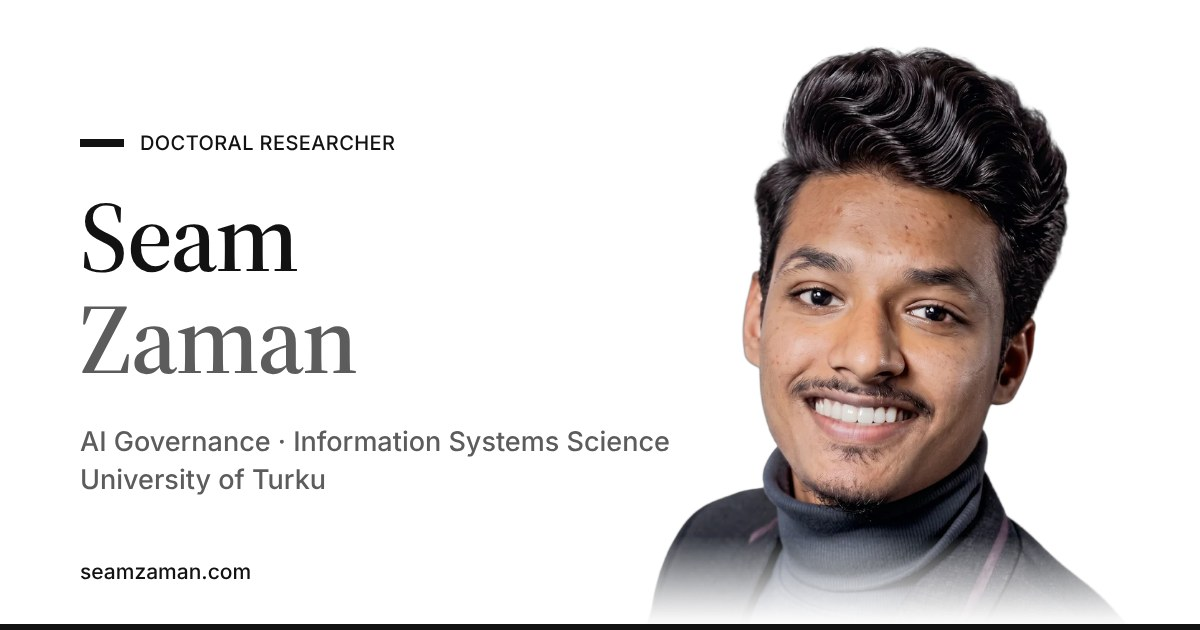
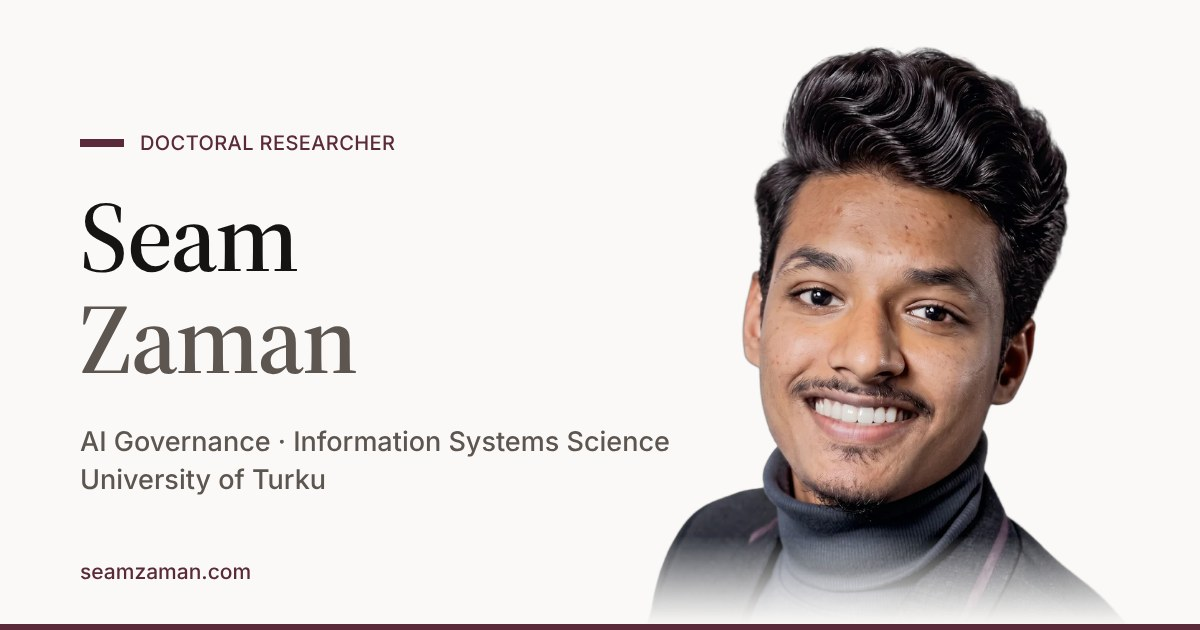
Add academic profile links, supervisor links and Person data
- Hero and contact: Google Scholar, ORCID, LinkedIn and University of
  Turku profile links
- Experience: supervisors link to their University of Turku pages
- Funding: name the three projects (AI4Work, RAITGO, FLAIG)
- Remove the Marketing Analyst role and the Languages line (kept in the
  CV PDF)
- index.html: schema.org Person JSON-LD with affiliation and profiles
- og-image.jpg: preview card on the off-white background with the plum
  accent

Claude-Session: https://claude.ai/code/session_01BgUoZHnXC1HSnGXGqqa1qu

Changed region(s): [[0.0, 0.9651, 1.0, 1.0], [0.0617, 0.2111, 0.3392, 0.2413], [0.0617, 0.9048, 0.2158, 0.9349]]

diff --git a/src/pages/Index.tsx b/src/pages/Index.tsx
@@ -1,17 +1,45 @@
 import { useState } from "react";
 import { motion, useReducedMotion } from "framer-motion";
-import { ArrowRight, Mail, MapPin, Download, ExternalLink, Linkedin } from "lucide-react";
+import { ArrowRight, Mail, MapPin, Download, ExternalLink, Linkedin, GraduationCap, Building2 } from "lucide-react";
 import { Button } from "@/components/ui/button";
 import { Tabs, TabsList, TabsTrigger, TabsContent } from "@/components/ui/tabs";
 import portrait from "@/assets/seam-portrait.webp";
 
 const EMAIL = "sszama@utu.fi";
 
+const PROFILES = [
+  { label: "Google Scholar", href: "https://scholar.google.com/citations?user=R_QWgUUAAAAJ&hl=en", icon: GraduationCap },
+  { label: "ORCID", href: "https://orcid.org/0009-0004-0791-6051", icon: ExternalLink },
+  { label: "LinkedIn", href: "https://www.linkedin.com/in/seamzaman/", icon: Linkedin },
+  { label: "University of Turku", href: "https://www.utu.fi/en/people/seam-zaman", icon: Building2 },
+] as const;
+
+const PersonLink = ({ href, children }: { href: string; children: React.ReactNode }) => (
+  <a
+    href={href}
+    target="_blank"
+    rel="noreferrer"
+    className="text-foreground underline decoration-brand/40 underline-offset-4 hover:decoration-brand focus-visible:outline-none focus-visible:ring-2 focus-visible:ring-ring"
+  >
+    {children}
+  </a>
+);
+
+const MANTYMAKI = "https://www.utu.fi/en/people/matti-mantymaki";
+const MINKKINEN = "https://www.utu.fi/en/people/matti-minkkinen";
+
 const timeline = [
-  { period: "Jan 2026 – present", title: "Doctoral Researcher, Information Systems Science", org: "Turku School of Economics, University of Turku", desc: "Doctoral Programme in Technology. Supervisors: Prof. Matti Mäntymäki and Matti Minkkinen. Target defence: 2030." },
+  {
+    period: "Jan 2026 – present",
+    title: "Doctoral Researcher, Information Systems Science", org: "Turku School of Economics, University of Turku", desc: (
+      <>
+        Doctoral Programme in Technology. Supervisors: <PersonLink href={MANTYMAKI}>Prof. Matti Mäntymäki</PersonLink> and{" "}
+        <PersonLink href={MINKKINEN}>Matti Minkkinen</PersonLink>. Target defence: 2030.
+      </>
+    ),
+  },
   { period: "Oct – Dec 2025", title: "Project Researcher", org: "Dept. of Management and Entrepreneurship, University of Turku", desc: "Built an API-based tool collecting dialogue data on AI governance tensions and gathered organisational AI governance policies." },
   { period: "May – Jul 2024", title: "Learning Analytics Intern", org: "Oulu Business School, University of Oulu", desc: "Co-authored the report Advancement of Digitalization in Education and structured a MOOC on Digicampus." },
-  { period: "2020 – 2022", title: "Marketing Analyst", org: "Course Platoon, Dhaka", desc: "Market research and analytics supporting strategy and customer acquisition." },
 ];
 
 const education = [
@@ -133,7 +161,7 @@ const SectionHeading = ({ kicker, children }: { kicker: string; children: React.
   </motion.div>
 );
 
-type TimelineItem = { period: string; title: string; org: string; desc?: string };
+type TimelineItem = { period: string; title: string; org: string; desc?: React.ReactNode };
 
 const Timeline = ({ items }: { items: readonly TimelineItem[] }) => (
   <div className="space-y-7 sm:space-y-8">
@@ -262,6 +290,20 @@ const Index = () => {
                   <a href="#contact">Get in Touch</a>
                 </Button>
               </div>
+              <ul className="mt-6 flex flex-wrap justify-center gap-x-5 gap-y-1 text-sm text-muted-foreground lg:justify-start">
+                {PROFILES.map(({ label, href, icon: Icon }) => (
+                  <li key={label}>
+                    <a
+                      href={href}
+                      target="_blank"
+                      rel="noreferrer"
+                      className="inline-flex min-h-11 items-center gap-1.5 transition-colors hover:text-foreground focus-visible:outline-none focus-visible:ring-2 focus-visible:ring-ring"
+                    >
+                      <Icon className="h-4 w-4 text-brand" /> {label}
+                    </a>
+                  </li>
+                ))}
+              </ul>
             </motion.div>
 
             <motion.div
@@ -359,7 +401,11 @@ const Index = () => {
 
           <motion.h3 {...fadeUp} className="font-display font-semibold text-xl text-foreground mt-10 sm:mt-14 mb-4">Funding & Awards</motion.h3>
           <motion.ul {...fadeUp} className="list-disc pl-5 space-y-2 text-[0.9375rem] leading-relaxed text-muted-foreground">
-            <li>Doctoral research funding for 2026 from three research projects led by Prof. Matti Mäntymäki.</li>
+            <li>
+              Doctoral research funding for 2026 from three research projects led by{" "}
+              <PersonLink href={MANTYMAKI}>Prof. Matti Mäntymäki</PersonLink>: AI4Work, Responsible AI Through Governance
+              (RAITGO) and Forward-Looking AI Governance (FLAIG).
+            </li>
             <li>UTUGS doctoral researcher funding, University of Turku Graduate School (24 months).</li>
             <li>University of Oulu two-year tuition scholarship, 2023–2025.</li>
           </motion.ul>
@@ -392,8 +438,6 @@ const Index = () => {
             </div>
           </motion.dl>
 
-          <motion.h3 {...fadeUp} className="font-display font-semibold text-xl text-foreground mt-10 sm:mt-14 mb-4">Languages</motion.h3>
-          <motion.p {...fadeUp} className="text-[0.9375rem] text-muted-foreground">Bengali (native) · English (fluent, C1) · Finnish (A2)</motion.p>
         </div>
       </section>
 
@@ -416,12 +460,11 @@ const Index = () => {
             <span className="flex min-h-11 items-center gap-3">
               <MapPin className="h-4 w-4 text-brand" /> Turku, Finland
             </span>
-            <a href="https://orcid.org/0009-0004-0791-6051" target="_blank" rel="noreferrer" className="flex min-h-11 items-center gap-3 hover:text-primary focus-visible:outline-none focus-visible:ring-2 focus-visible:ring-ring">
-              <ExternalLink className="h-4 w-4 text-brand" /> ORCID
-            </a>
-            <a href="https://www.linkedin.com/in/seamzaman/" target="_blank" rel="noreferrer" className="flex min-h-11 items-center gap-3 hover:text-primary focus-visible:outline-none focus-visible:ring-2 focus-visible:ring-ring">
-              <Linkedin className="h-4 w-4 text-brand" /> LinkedIn
-            </a>
+            {PROFILES.map(({ label, href, icon: Icon }) => (
+              <a key={label} href={href} target="_blank" rel="noreferrer" className="flex min-h-11 items-center gap-3 hover:text-primary focus-visible:outline-none focus-visible:ring-2 focus-visible:ring-ring">
+                <Icon className="h-4 w-4 text-brand" /> {label}
+              </a>
+            ))}
           </motion.div>
 
           <motion.div {...fadeUp}>

diff --git a/index.html b/index.html
@@ -21,6 +21,31 @@
     <meta property="og:image:alt" content="Seam Zaman, Doctoral Researcher in AI Governance at the University of Turku" />
     <meta name="twitter:card" content="summary_large_image" />
     <meta name="twitter:image" content="https://seamzaman.com/og-image.jpg" />
+    <script type="application/ld+json">
+      {
+        "@context": "https://schema.org",
+        "@type": "Person",
+        "name": "Seam Zaman",
+        "alternateName": "S. M. Seam-uz Zaman",
+        "url": "https://seamzaman.com/",
+        "image": "https://seamzaman.com/og-image.jpg",
+        "jobTitle": "Doctoral Researcher",
+        "description": "Doctoral researcher in Information Systems Science studying how organisations govern AI.",
+        "knowsAbout": ["AI governance", "Human oversight of AI", "Information systems"],
+        "affiliation": {
+          "@type": "CollegeOrUniversity",
+          "name": "University of Turku",
+          "department": { "@type": "Organization", "name": "Turku School of Economics" },
+          "url": "https://www.utu.fi/en"
+        },
+        "sameAs": [
+          "https://orcid.org/0009-0004-0791-6051",
+          "https://scholar.google.com/citations?user=R_QWgUUAAAAJ",
+          "https://www.linkedin.com/in/seamzaman/",
+          "https://www.utu.fi/en/people/seam-zaman"
+        ]
+      }
+    </script>
   </head>
 
   <body>
